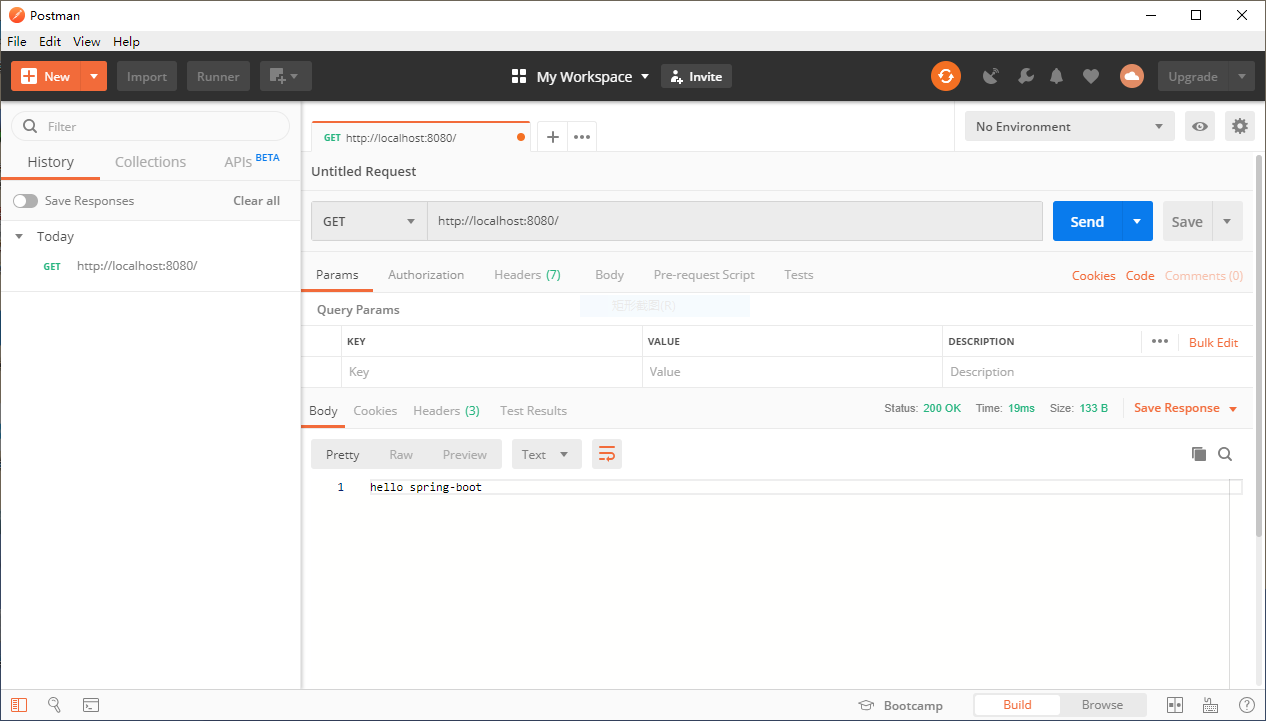
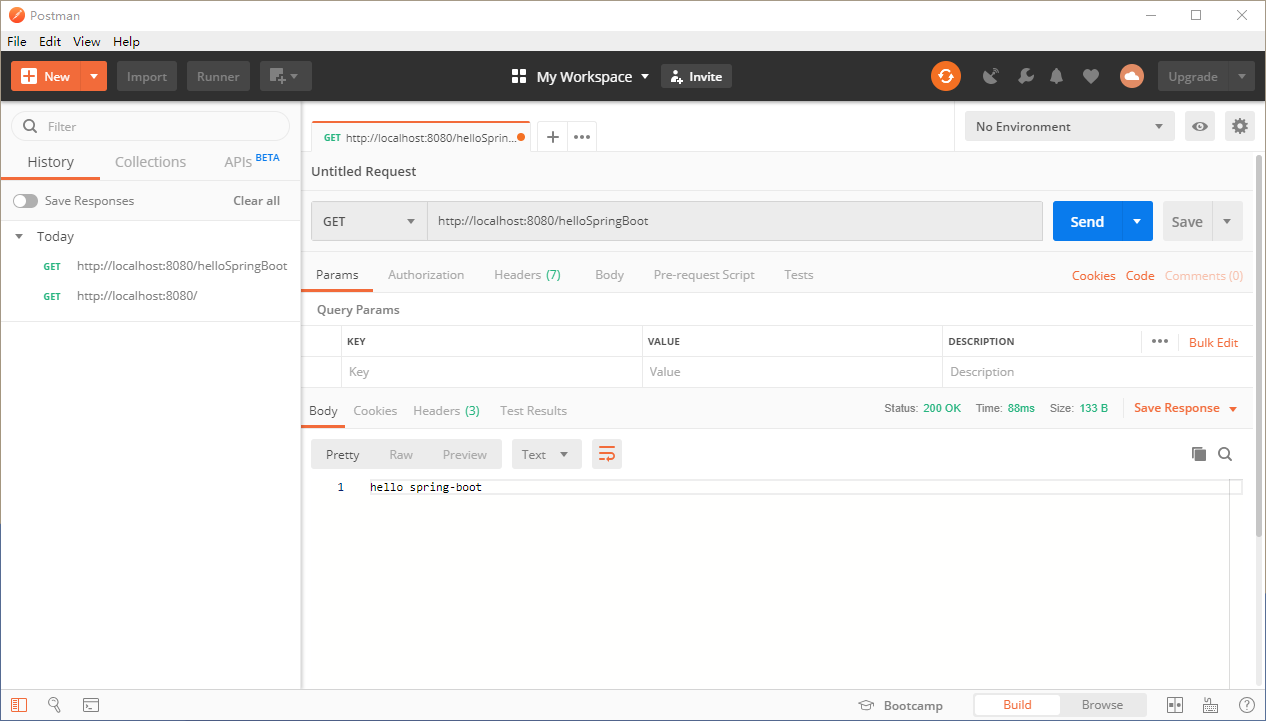
springboot作业

diff --git a/25511-jiqihan-springboot/src/main/java/hand/controller/HelloSpringBootController.java b/25511-jiqihan-springboot/src/main/java/hand/controller/HelloSpringBootController.java
@@ -14,7 +14,7 @@ import org.springframework.web.bind.annotation.RestController;
 public class HelloSpringBootController {
     @Autowired
     private HelloSpringBoot helloSpringBoot;
-    @GetMapping("/")
+    @GetMapping("/helloSpringBoot")
     public String helloSpringBoot(){
         return helloSpringBoot.sayHello();
     }
